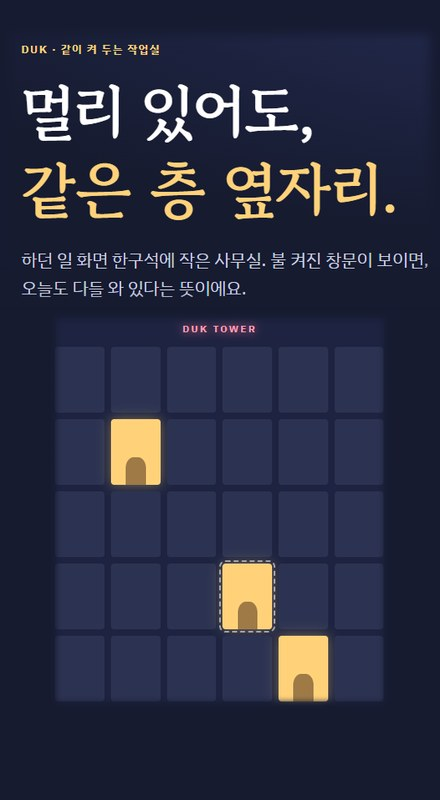
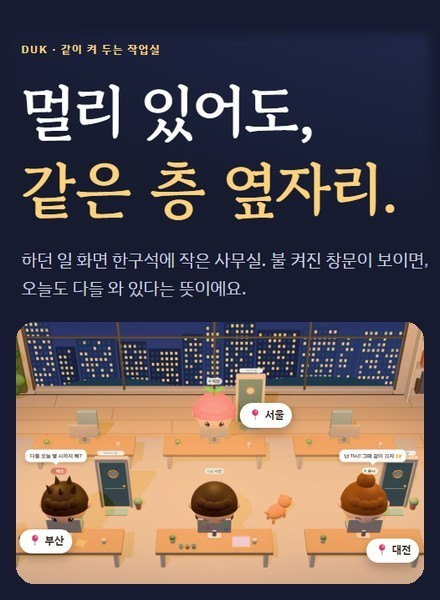
Site: DUK 배너 그림 = 제목 + 사무실 그림 (건물 뺌), 그림 높이는 그림대로
Claude-Session: https://claude.ai/code/session_015CZHK9iZkeVUnMLd6mw4SJ

diff --git a/assets/site.css b/assets/site.css
@@ -305,8 +305,9 @@ html.intro-on .intro { position: fixed; inset: 0; z-index: 100; display: flex; f
   box-shadow: 0 24px 70px rgba(0, 0, 0, 0.5); transition: border-color .15s ease, transform .2s ease; }
 .rail-ad:hover { transform: translateY(-2px); border-color: color-mix(in srgb, var(--app) 60%, var(--border)); }
 .rail-ad:focus-visible { outline: 2px solid var(--app); outline-offset: 2px; }
-.rail-cover { display: block; width: 100%; height: 400px; object-fit: cover; }
-.rail-art { position: relative; display: block; height: 400px; }
+.rail-cover { display: block; width: 100%; height: auto; max-height: 420px; object-fit: cover; }
+.rail-blank { height: 300px; }
+.rail-art { position: relative; display: block; }
 .rail-art.two .rail-cover + .rail-cover { position: absolute; inset: 0; opacity: 0; animation: rail-swap 14s ease-in-out infinite; }
 @keyframes rail-swap { 0%, 40% { opacity: 0; } 50%, 90% { opacity: 1; } 100% { opacity: 0; } }
 @media (prefers-reduced-motion: reduce) { .rail-art.two .rail-cover + .rail-cover { animation: none; } }
@@ -318,5 +319,6 @@ html.intro-on .intro { position: fixed; inset: 0; z-index: 100; display: flex; f
 .rail-ad .ad-name { font-size: 18px; font-weight: 700; line-height: 24px; }
 .rail-ad .ad-desc { font-size: 13.5px; line-height: 21px; }
 .rail-go { margin-top: auto; padding-top: 12px; color: var(--app); font-size: 13.5px; font-weight: 700; }
+.rail-art + .ad-tag + .rail-body .ad-icon { margin-top: 14px; }   /* 그림이 있으면 아이콘이 그림을 안 가림 */
 .rail-note { margin: 0; padding: 0 4px; color: var(--muted); font-size: 11.5px; line-height: 17px; }
 @media (prefers-reduced-motion: reduce) { .rail-ad { transition: none; } .rail-ad:hover { transform: none; } }

diff --git a/tools/make_site_pages.py b/tools/make_site_pages.py
@@ -175,7 +175,7 @@ def ads_rail():
         covers = [n for n in (ad["id"] + "_cover.jpg", ad["id"] + "_cover2.jpg") if os.path.exists(os.path.join(OUT, "assets", "ads", n))]
         # 그림이 둘이면 천천히 번갈아 (2026-11-01 현우 '이 이미지도 같이') — 움직임 줄이기 설정이면 첫 그림만
         art = (f'<span class="rail-art{" two" if len(covers) > 1 else ""}">' + "".join(
-                   f'<img class="rail-cover" src="{R("")}assets/ads/{n}" alt="" width="220" height="400" loading="lazy">' for n in covers) + '</span>'
+                   f'<img class="rail-cover" src="{R("")}assets/ads/{n}" alt="" width="220" loading="lazy">' for n in covers) + '</span>'
                if covers else '<span class="rail-cover rail-blank" aria-hidden="true"></span>')
         cards.append(f'<a class="rail-ad" style="--app:{ad.get("color", "#9399a1")}" href="{E(ad["url"])}" target="_blank" rel="sponsored noopener noreferrer">'
                      f'{art}<span class="ad-tag">{T("광고", "Ad")}</span><span class="rail-body">{icon}<span class="ad-name">{E(ad["name"])}</span>'
